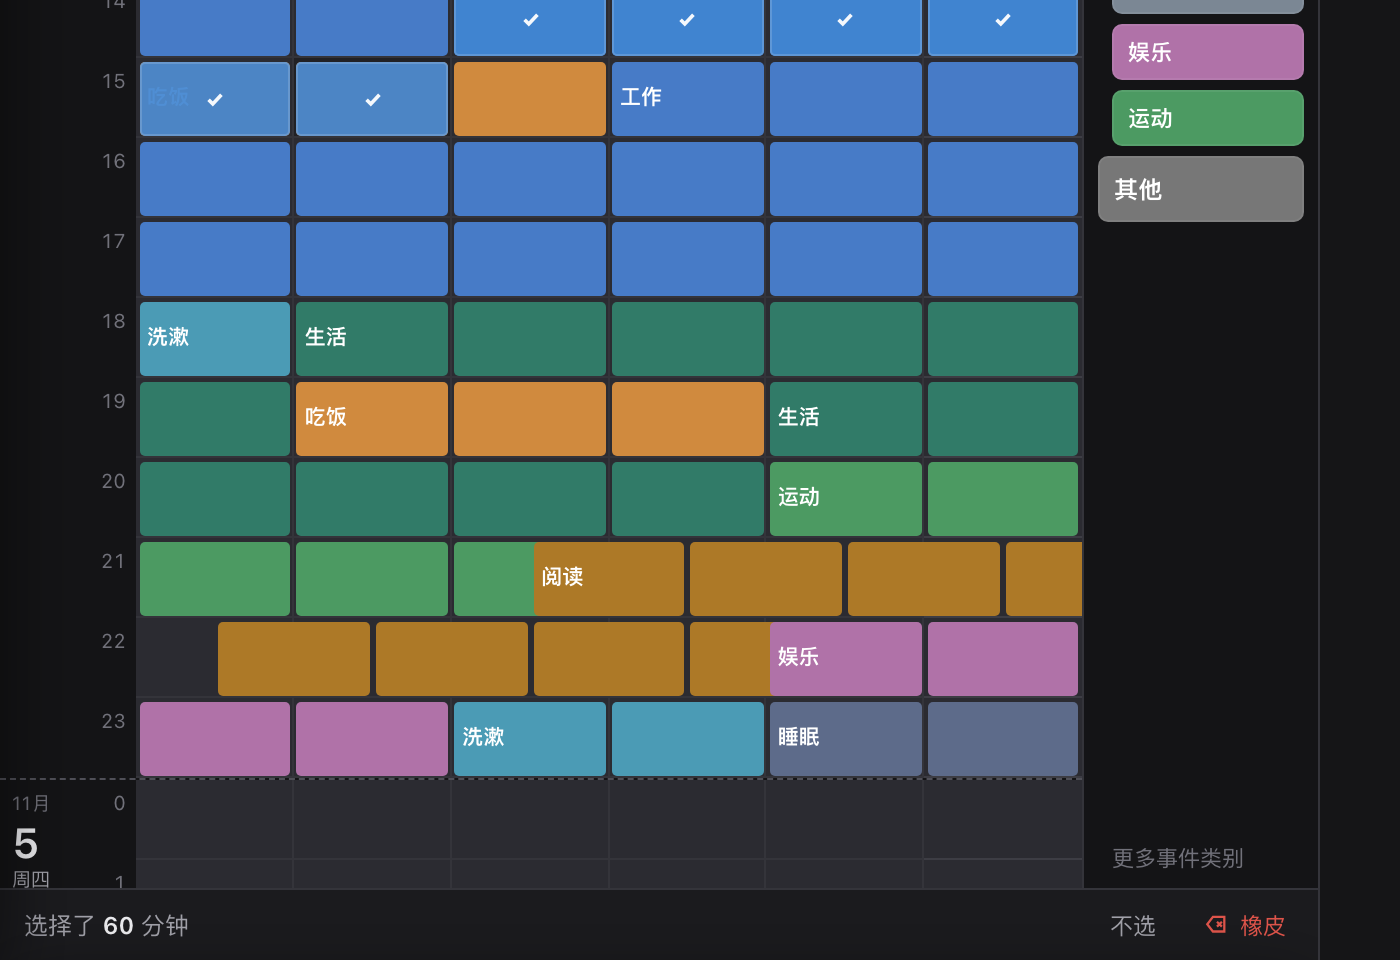
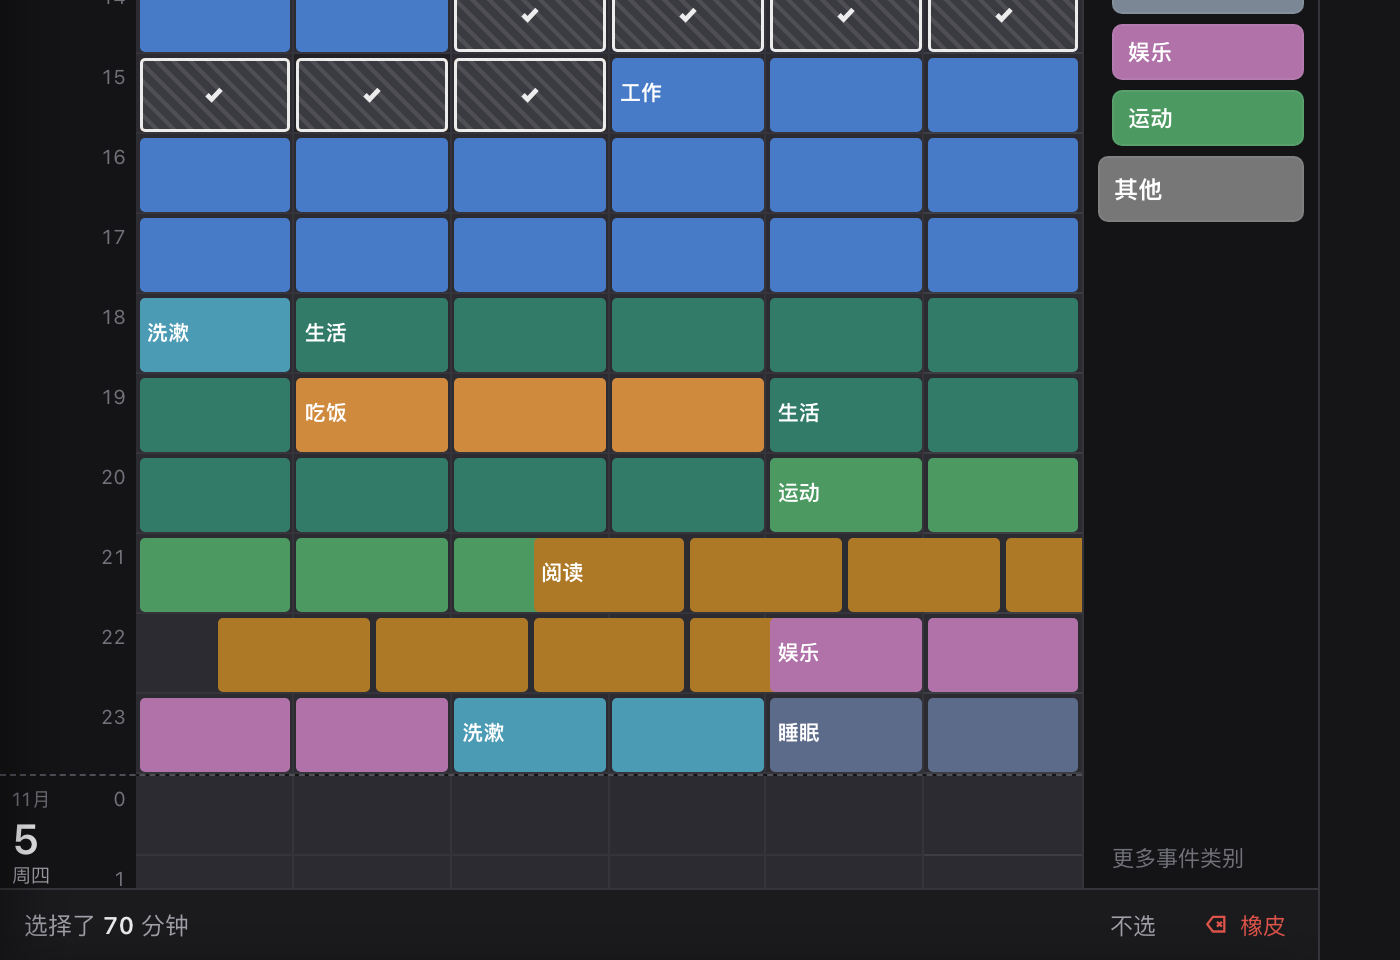
design: per-cell selection toggle and hue-free selection overlay

diff --git a/design/time-block-rail.html b/design/time-block-rail.html
@@ -27,7 +27,7 @@ body{font:14px/1.5 -apple-system,BlinkMacSystemFont,"SF Pro Text","PingFang SC",
   --cell:#2b2b31;--cell-2:#1f1f23;--line:#34343a;--line-2:#3d3d44;--dash:#4f4f57;
   --txt:#ececef;--txt-2:#a2a2aa;--txt-3:#71717a;--txt-4:#55555d;
   --accent:#5b8def;--accent-soft:#1d2b44;
-  --sel:rgba(64,132,208,.92);--sel-line:rgba(255,255,255,.16);
+  --sel-face:#3a3a41;--sel-hatch:rgba(255,255,255,.10);--sel-line:rgba(255,255,255,.9);
   --danger:#e0554b;
   --shadow:0 14px 38px rgba(0,0,0,.6);--shadow-sm:0 6px 18px rgba(0,0,0,.45);
 }
@@ -37,7 +37,7 @@ body{font:14px/1.5 -apple-system,BlinkMacSystemFont,"SF Pro Text","PingFang SC",
   --cell:#efeff2;--cell-2:#f7f7f9;--line:#e2e2e7;--line-2:#d2d2d9;--dash:#b9b9c2;
   --txt:#17171b;--txt-2:#5f5f68;--txt-3:#8b8b94;--txt-4:#a8a8b0;
   --accent:#2f6fd0;--accent-soft:#e6eefb;
-  --sel:rgba(0,0,0,.1);--sel-line:rgba(0,0,0,.45);
+  --sel-face:#dcdce2;--sel-hatch:rgba(0,0,0,.07);--sel-line:rgba(0,0,0,.7);
   --danger:#cf3f35;
   --shadow:0 14px 38px rgba(20,20,30,.16);--shadow-sm:0 6px 18px rgba(20,20,30,.12);
 }
@@ -152,9 +152,11 @@ body{font:14px/1.5 -apple-system,BlinkMacSystemFont,"SF Pro Text","PingFang SC",
   padding:0 4px;font-size:10.5px;font-weight:600;letter-spacing:.1px;color:#fff;white-space:nowrap}
 .blk span{overflow:hidden;text-overflow:ellipsis;white-space:nowrap}
 .blk span.short{letter-spacing:-.2px}
-.selbox{position:absolute;z-index:4;background:var(--sel);box-shadow:inset 0 0 0 1px var(--sel-line);
-  border-radius:2.5px;pointer-events:none;display:grid;place-items:center;color:#fff;font-size:10px;font-weight:700}
-.selbox svg{width:11px;height:11px;opacity:.95}
+.selbox{position:absolute;z-index:4;border-radius:2.5px;pointer-events:none;display:grid;place-items:center;
+  background-color:var(--sel-face);
+  background-image:repeating-linear-gradient(45deg,var(--sel-hatch) 0 2px,transparent 2px 6px);
+  box-shadow:inset 0 0 0 1.5px var(--sel-line)}
+.selbox svg{width:12px;height:12px;stroke-width:2.4;color:var(--sel-line)}
 .nowline{position:absolute;left:0;right:0;height:1px;background:var(--txt-3);opacity:.55;z-index:5;pointer-events:none}
 .nowline::before{content:"";position:absolute;left:0;top:-2px;width:5px;height:5px;border-radius:50%;background:var(--txt-2)}
 
@@ -658,18 +660,14 @@ function rangeSlots(day, a, b) {
 }
 function bindCanvas(layer) {
   const c = canvases[layer];
-  const same = (a, b) => a.size === b.size && [...a].every(k => b.has(k));
 
   c.days.addEventListener('pointerdown', e => {
     const pos = cellPos(e);
     if (!pos) return;
-    const r = recordIn(pos.day, pos.min, layer);
-    const hit = r ? new Set(slotsOf(r)) : new Set([slotKey(pos.day, pos.min)]);
-    const already = same(state.selected, hit) || state.selected.has(slotKey(pos.day, pos.min));
-
-    // 按下时：拖 = 从这一格重新拉一段；点 = 到 pointerup 再决定（选中 / 取消）
-    drag = { day: pos.day, anchor: pos.min, moved: false, record: r, startedSelected: already };
-    if (!already) state.selected = r ? hit : new Set([slotKey(pos.day, pos.min)]);
+    const key = slotKey(pos.day, pos.min);
+    const wasSelected = state.selected.has(key);
+    drag = { day: pos.day, anchor: pos.min, moved: false, wasSelected };
+    if (!wasSelected) state.selected.add(key);          // 按下即选中，像直接刷一样有反馈
     refresh(); e.preventDefault();
   });
 
@@ -678,19 +676,15 @@ function bindCanvas(layer) {
     const pos = cellPos(e);
     if (!pos || pos.day !== drag.day) return;
     if (!drag.moved && pos.min === drag.anchor) return;
-    drag.moved = true;                        // 一旦拖动，选区就是这一段，不再叠加旧选区
-    state.selected = new Set(rangeSlots(drag.day, drag.anchor, pos.min));
+    drag.moved = true;
+    rangeSlots(drag.day, drag.anchor, pos.min).forEach(k => state.selected.add(k));  // 拖 = 并入这段
     refresh();
   });
 
   window.addEventListener('pointerup', () => {
     if (!drag || layer !== state.layer) return;
-    if (!drag.moved) {
-      if (drag.startedSelected) state.selected = new Set();                 // 点已选的块 = 取消
-      else if (drag.record) state.selected = new Set(slotsOf(drag.record)); // 点没选的块 = 选中整条
-      else if (state.selected.size && !state.selected.has(slotKey(drag.day, drag.anchor))) {
-        state.selected = new Set([slotKey(drag.day, drag.anchor)]);         // 点另一格 = 换成这一格
-      }
+    if (!drag.moved && drag.wasSelected) {              // 点已选中的格子 = 只取消这一格
+      state.selected.delete(slotKey(drag.day, drag.anchor));
     }
     drag = null; refresh();
   });

diff --git a/design/time-block-rail-brief.md b/design/time-block-rail-brief.md
@@ -49,11 +49,12 @@
 
 | 动作 | 结果 |
 | --- | --- |
-| 点没被选中的色块 | 选中整条记录（整块变蓝 + ✓） |
-| 再点同一块 / 已选中的格 | 取消 |
-| 点另一个没选中的格 | 换成这一格（不叠加） |
-| 拖过若干格 | 重新拉一段（不叠加旧选区） |
+| 点一个没选中的格 | 选中这一格（逐格，不选整条） |
+| 点一个已选中的格 | **只取消这一格** |
+| 拖过若干格 | 把这一段并入选区 |
 | 底栏「不选」/ Esc / 点画布外 | 清空 |
+
+选中态不用任何标签色相：中性灰底 + 斜纹 + 白描边 + 勾（浅色主题是浅灰 + 深勾），保证和 12 个标签颜色不可能撞。
 
 底栏照 App 做成「选择了 N 分钟」＋「不选」＋「橡皮」。
 
